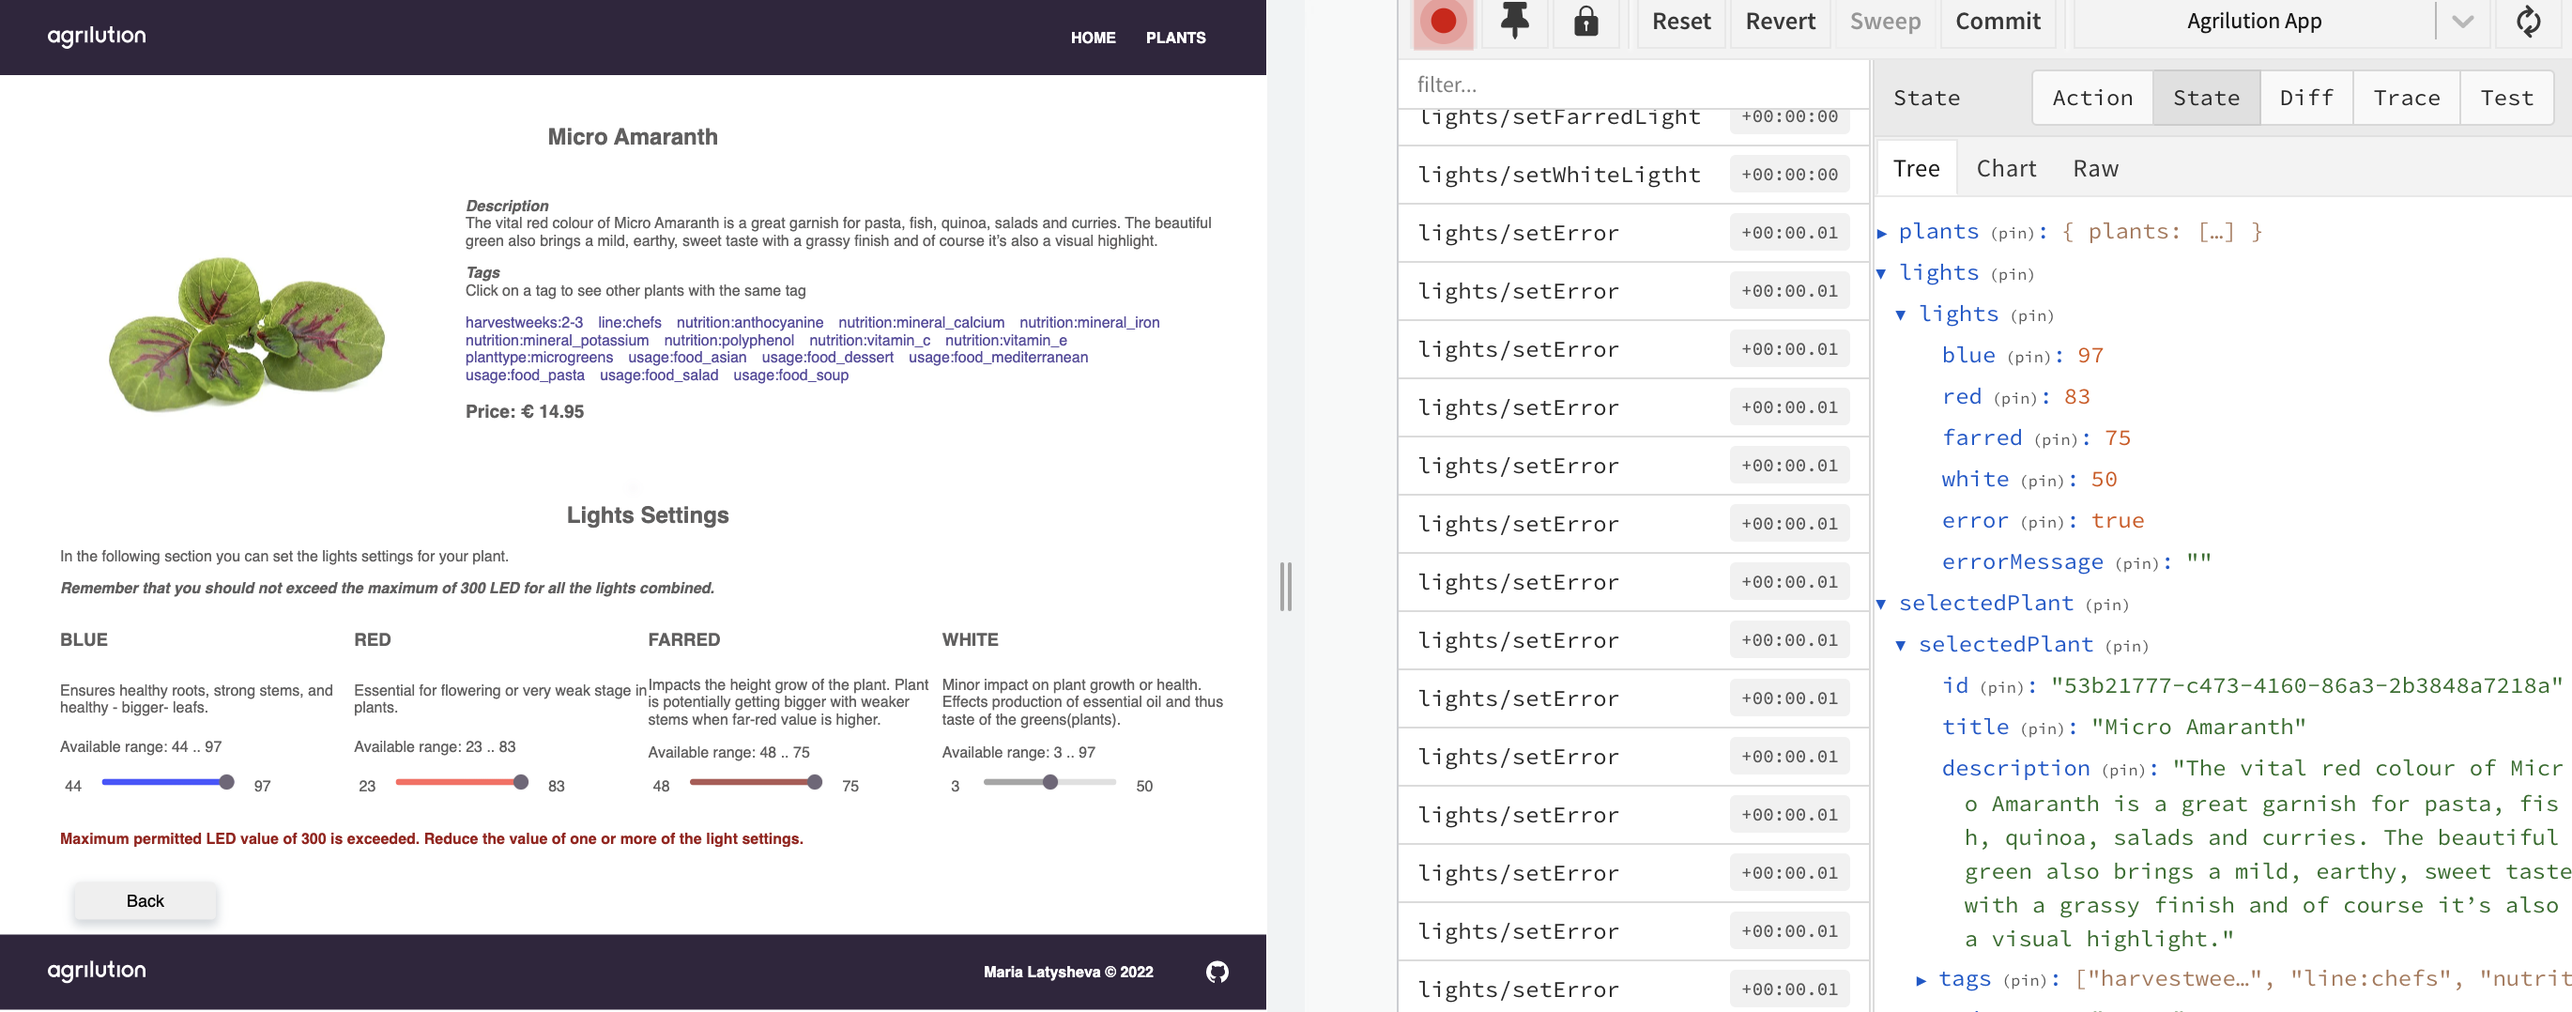
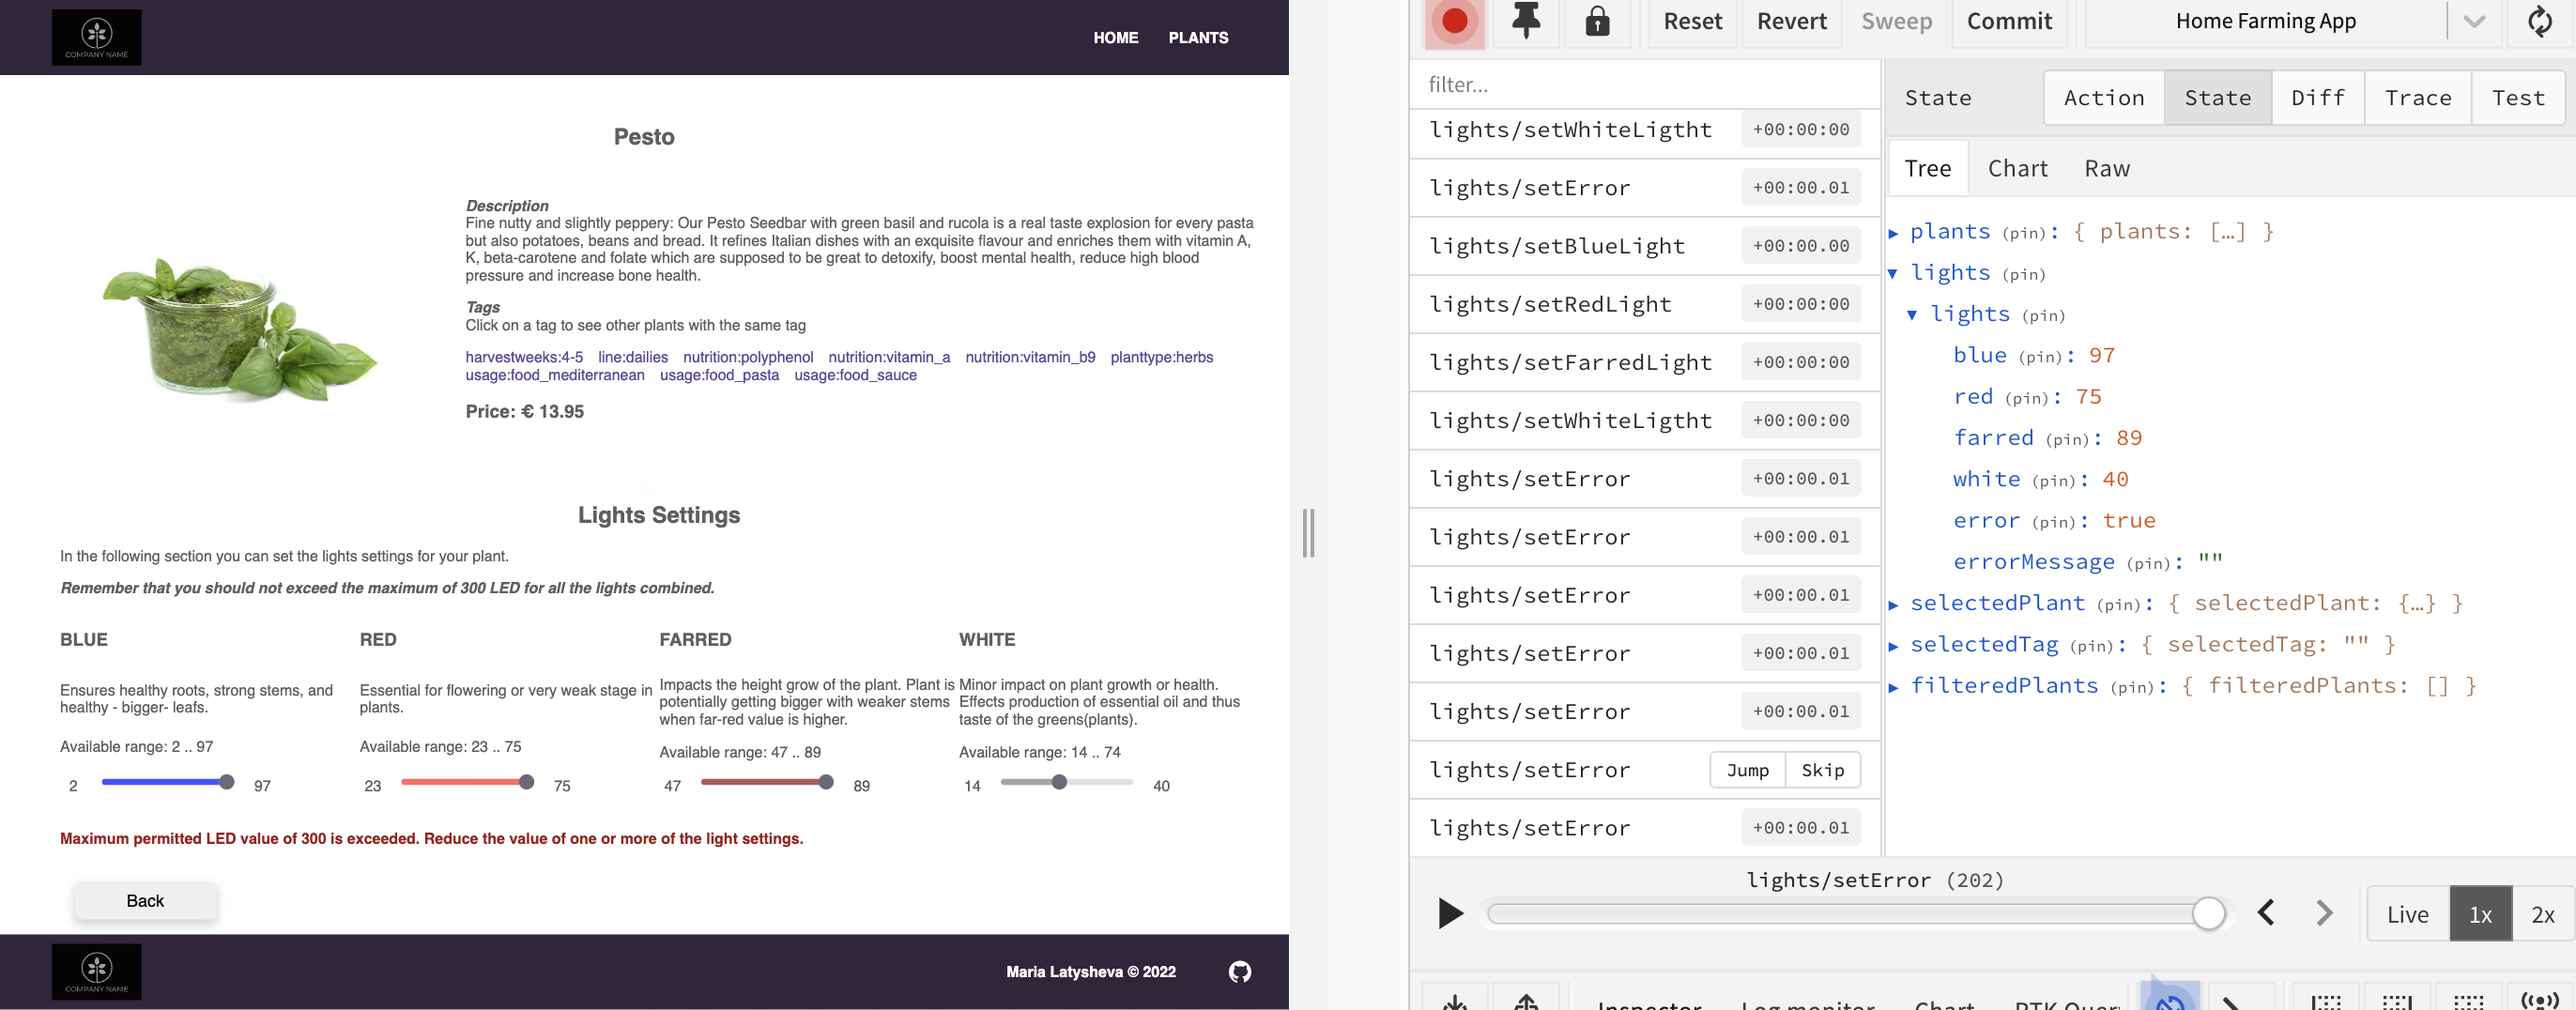
init: depersonalise home farming app

diff --git a/src/app/App.tsx b/src/app/App.tsx
@@ -13,7 +13,7 @@ import { Footer } from "../widgets/Footer";
 import ErrorBoundary from "./ErrorBoundary";
 import { constants } from "../shared/constants";
 
-const baseUrl = "agrilution_app";
+const baseUrl = "home_farming_app";
 /**
  * @description The main component of the app.
  * Renders each selected plant in a separate page: /plant/:id
@@ -28,10 +28,10 @@ function App() {
             <Provider store={store}>
               <Header />
               <Routes>
-                <Route path="/agrilution_app" element={<HomePage />} />
-                <Route path="/agrilution_app/plants" element={<PlantsPage />} />
-                <Route path="/agrilution_app/plants/:id" element={<SelectedPlantPage />} />
-                <Route path="/agrilution_app/*" element={<NotFoundPage />} />
+                <Route path="/home_farming_app" element={<HomePage />} />
+                <Route path="/home_farming_app/plants" element={<PlantsPage />} />
+                <Route path="/home_farming_app/plants/:id" element={<SelectedPlantPage />} />
+                <Route path="/home_farming_app/*" element={<NotFoundPage />} />
               </Routes>
               <Footer />
             </Provider>

diff --git a/public/index.html b/public/index.html
@@ -9,7 +9,7 @@
       name="description"
       content="Web site created using create-react-app"
     />
-    <link rel="apple-touch-icon" href="%PUBLIC_URL%/logo-agrilution-black.svg" />
+    <link rel="apple-touch-icon" href="%PUBLIC_URL%/company-logo.png" />
     <!--
       manifest.json provides metadata used when your web app is installed on a
       user's mobile device or desktop. See https://developers.google.com/web/fundamentals/web-app-manifest/
@@ -24,7 +24,7 @@
       work correctly both with client-side routing and a non-root public URL.
       Learn how to configure a non-root public URL by running `npm run build`.
     -->
-    <title>Agrilution App</title>
+    <title>Home Farming App</title>
   </head>
   <body>
     <noscript>You need to enable JavaScript to run this app.</noscript>

diff --git a/src/features/filteredPlantsSlice.ts b/src/features/filteredPlantsSlice.ts
@@ -16,10 +16,13 @@ export const getFilteredPlants = createAsyncThunk(
   'filteredPlants/getFilteredPlants',
   async (selectedTag: string, { rejectWithValue, dispatch }) => {
     try {
-      const res = await axios.get(
-        `https://dev.api.agrilution.com/plantData.json`
+      const res = await fetch(
+        `https://dev.api.agrilution.com/plantData.json`, {
+        // 'https://github.com/mlatysheva/home_farming_app_api/blob/main/data.json', {
+        }
       );
-      const plants = objectToArray(res.data);
+      const data = await res.json();
+      const plants = objectToArray(data);
       if (selectedTag) {
       const filteredPlants = plants.filter((plant) => {
         return (plant.tags).includes(selectedTag);

diff --git a/src/widgets/Header.tsx b/src/widgets/Header.tsx
@@ -5,10 +5,10 @@ export const Header = () => {
 
   return (
     <div className="header">
-      <a href="https://www.agrilution.com/"className="logo" target="_blank" rel="noreferrer"></a>
+      <a href="https://github.com/mlatysheva/"className="logo" target="_blank" rel="noreferrer"></a>
       <div className="nav">
-        <Link to="/agrilution_app">Home</Link>
-        <Link to="/agrilution_app/plants">Plants</Link>
+        <Link to="/home_farming_app">Home</Link>
+        <Link to="/home_farming_app/plants">Plants</Link>
       </div>
     </div>
   )

diff --git a/src/widgets/Footer.tsx b/src/widgets/Footer.tsx
@@ -1,7 +1,7 @@
 export const Footer = () => {
   return (
     <footer className="footer">
-      <a href="https://www.agrilution.com/"className="logo" target="_blank" rel="noreferrer"></a>
+      <a href="https://github.com/mlatysheva/"className="logo" target="_blank" rel="noreferrer"></a>
       <a href="mailto:mlatysheva@gmail.com">Maria Latysheva © 2022</a>
       <a href="https://github.com/mlatysheva" className="mygit">
         <div className="git_logo"></div>

diff --git a/src/widgets/PlantCard.tsx b/src/widgets/PlantCard.tsx
@@ -19,7 +19,7 @@ export const PlantCard = (props: PlantCardProps) =>{
    * @description: Set the selected plant to the Redux store, navigate to the selected plant page and set the id to LS
    */
   const handlePlant = () => {
-    navigate(`/agrilution_app/plants/${props.id}`);
+    navigate(`/home_farming_app/plants/${props.id}`);
     dispatch(setSelectedPlant(props));
     // window.location.reload();
     window.scrollTo({top: 0, left: 0, behavior: "smooth"});

diff --git a/src/pages/HomePage.tsx b/src/pages/HomePage.tsx
@@ -4,8 +4,8 @@ import { constants } from "../shared/constants";
 export const HomePage = () => {
   return (
     <div className="main home-page">
-      <h1>Wish to grow your home garden with Agrilution?</h1>
-      <Link to="/agrilution_app/plants">
+      <h1>Wish to have your own garden at home?</h1>
+      <Link to="/home_farming_app/plants">
         <button className="home-button">
           Count me in!
         </button>

diff --git a/src/shared/api/fetchPlants.ts b/src/shared/api/fetchPlants.ts
@@ -7,7 +7,7 @@ import { objectToArray } from "../utils/objectToArray";
  */
 export const fetchPlants = () => {
   const fetching = async () => {
-    const response = await axios.get("http://dev.api.agrilution.com/plantData.json");
+    const response = await axios.get("https://github.com/mlatysheva/home_farming_app_api/blob/main/data.json");
     const plantData = objectToArray(response.data);
     return plantData;
   }

diff --git a/src/app/styles/styles.scss b/src/app/styles/styles.scss
@@ -98,8 +98,9 @@ button:hover {
 
 .logo {
   width: 110px;
-  height: 40px;
-  background: url(../../../public/logo-agrilution-black.svg) no-repeat center;
+  height: 60px;
+  background: url(../../../public/company-logo.png) no-repeat center;
+  background-size: contain;
   filter: invert(97%) sepia(100%) saturate(0%) hue-rotate(73deg) brightness(104%) contrast(105%);
   margin-left: 2rem;
   margin-right: auto;

diff --git a/src/pages/SelectedPlantPage.tsx b/src/pages/SelectedPlantPage.tsx
@@ -105,7 +105,7 @@ export const SelectedPlantPage = () => {
             className="back-button"
             type="button"
             onClick={() => {
-              navigate("/agrilution_app/plants");
+              navigate("/home_farming_app/plants");
             }}
           >
             Back

diff --git a/src/shared/constants.ts b/src/shared/constants.ts
@@ -1,4 +1,4 @@
 export const constants = {
   MAXIMUM_LIGHT_VALUE: 300,
-  baseUrl: "agrilution_app",
+  baseUrl: "home_farming_app",
 }

diff --git a/README.md b/README.md
@@ -1,57 +1,18 @@
-# Description:
-This is an SPA created to pass a coding challenge of Agrilution, a company that builds vertical farming devices with which a customer can grow plants. This app represents a user interface for users to get information about specific plants and modify the LED intensity.
-Various color types have certain effects on the plants. Each plant requires a different mix of color spectrum, and expects a certain min and max range on the spectrum intensity. 
-<br>
-The colors are:
-- blue
-- white
-- red
-- far-red
+# Home Farming App
+This is a sample SPA that fetches plants from an external API. This app represents a user interface for users to get information about specific plants and modify light settings necessary to grow the plants at home. <br>
+There is a plage that shows available plants. The user can select a particular plant to view details and to set light settings.<br>
+There are light setting inputs for each plant and a list of tags. The user can filter available plants by a given tag and the list of the filtered plants will be monted into the current plant page
 
 ## Deployed app
 The deployed app is hosted on GitHub pages here:
 <br>
-https://mlatysheva.github.io/agrilution_app 
+https://mlatysheva.github.io/home_farming_app 
 
-## API Endpoint 
-
-The following api endpoint was used for this app:
-
-Secured:
-https://dev.api.agrilution.com/plantData.json
-
-The endpoint returns an object with different fields. An example and explanation of these fields is shown below:
-
-Example:
-```json
-"some_id": {
-	"title": "Kale",
-	"description": "abc",
-	"images": ["url"],
-	"light_settings": {
-		"blue": [33, 74],
-		"farred": [13, 94],
-		"red": [3, 78],
-		"white": [2, 79]
-	},
-	"price": "9.95",
-	"tags": ["harvestweeks:3-4", "line:essentials"]
-}
-```
-
-Explanation:
-```
-some_id = a unique id for each plant
-title = the english title of the plant
-description = a description for the plant
-images = urls pointing to one or more images of the plant
-light_settings = the range of light settings allowed in %. In this example, the plant can handle any blue light intensity between 33 and 74% 
-price = the price for the plant in euros
-tags = a list of tags which describe the plants
-```
+## External API
+The data is stored here: https://github.com/mlatysheva/home_farming_app_api/blob/main/data.json
 
 ## Implemented functionality
-- The data is retrieved from the above endpoint dynamically (the initial data is loaded from the json file contained within this repository)
+- The data is retrieved from the above extermal API  dynamically (the initial data is loaded from the json file contained within this repository)
 - The UI implements the following features:
 	- There is a list of all available plants
 	- The user can select a specific plant
@@ -62,12 +23,9 @@ tags = a list of tags which describe the plants
 		- Lets the user select a light intensity for each color that lies within the intensity range specified for this plant (e.g. "blue": [30, 100] means that the minimum intensity is 30% and the maximum intensity is 100%)
 		- Ensures that the overall light value (all colours added up) does not exceed 300%
     - Enables the user to filter all plants by a given tag from the selected plant page. The list of the filtered plants is mounted in the selected plant page and the user can click on another plant in the filtered list, which will be opened in a separate route page
-
-## Bonus Tasks implemented:
+    - There is a search by tag functionality, whereby the user can click on a tag on the plant specific page and see a list with all available plants that have the same tag, mounted into the selected plant page
 - Different urls based on the id are used for each selected plant
-- Creative UIs and responsive design are implemented
-- SCSS is used
-- A tag search is implemented whereby the user can click on a tag on the plant specific page and see a list with all available plants that have the same tag, mounted into the selected plant page
+- Responsive design is implemented
 
 ## Stack used:
 - Typescript
@@ -78,7 +36,7 @@ tags = a list of tags which describe the plants
 
 ## Installation and usage
 
-1. Clone the repository to your local machine by running `git clone https://mlatysheva@bitbucket.org/agrilution-os/frontend_ws_latysheva.git` from your terminal
+1. Clone the repository to your local machine by running `git clone https://github.com/mlatysheva/home_farming_app.git` from your terminal
 2. `cd` into the cloned repository
 3. Run `npm install` from the terminal to install all the dependencies
 4. Run `npm run start` to start the app in the development mode.\
